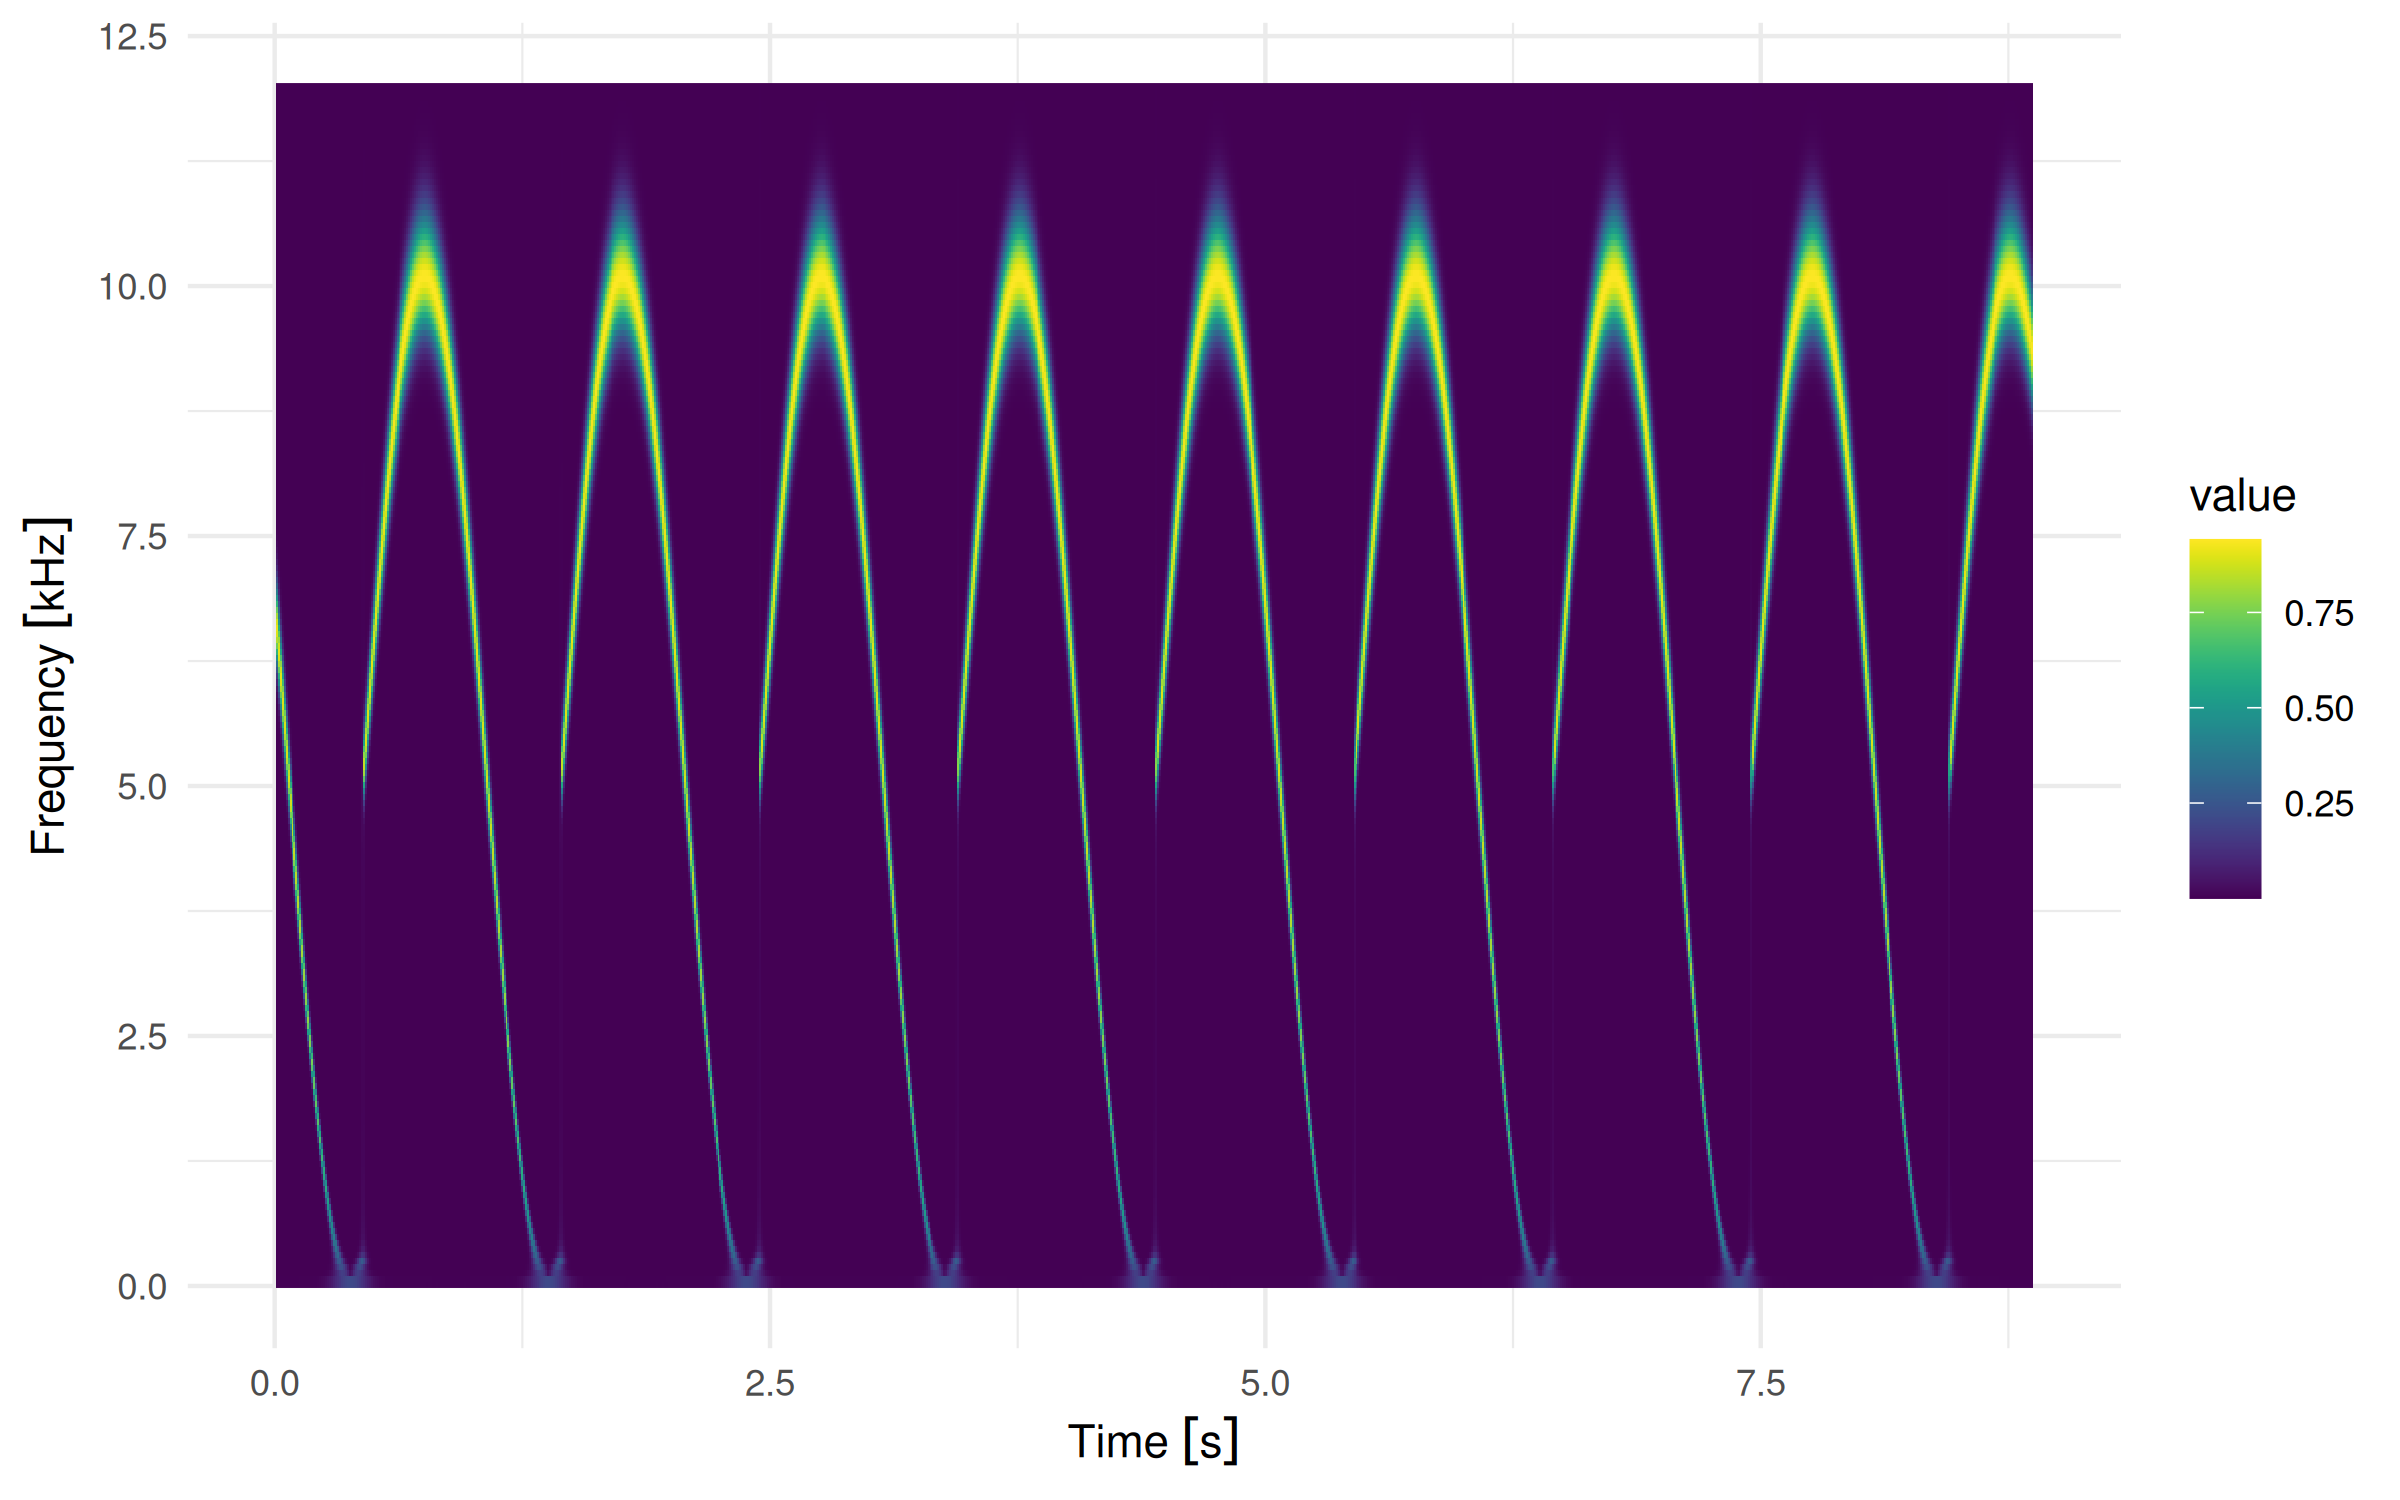
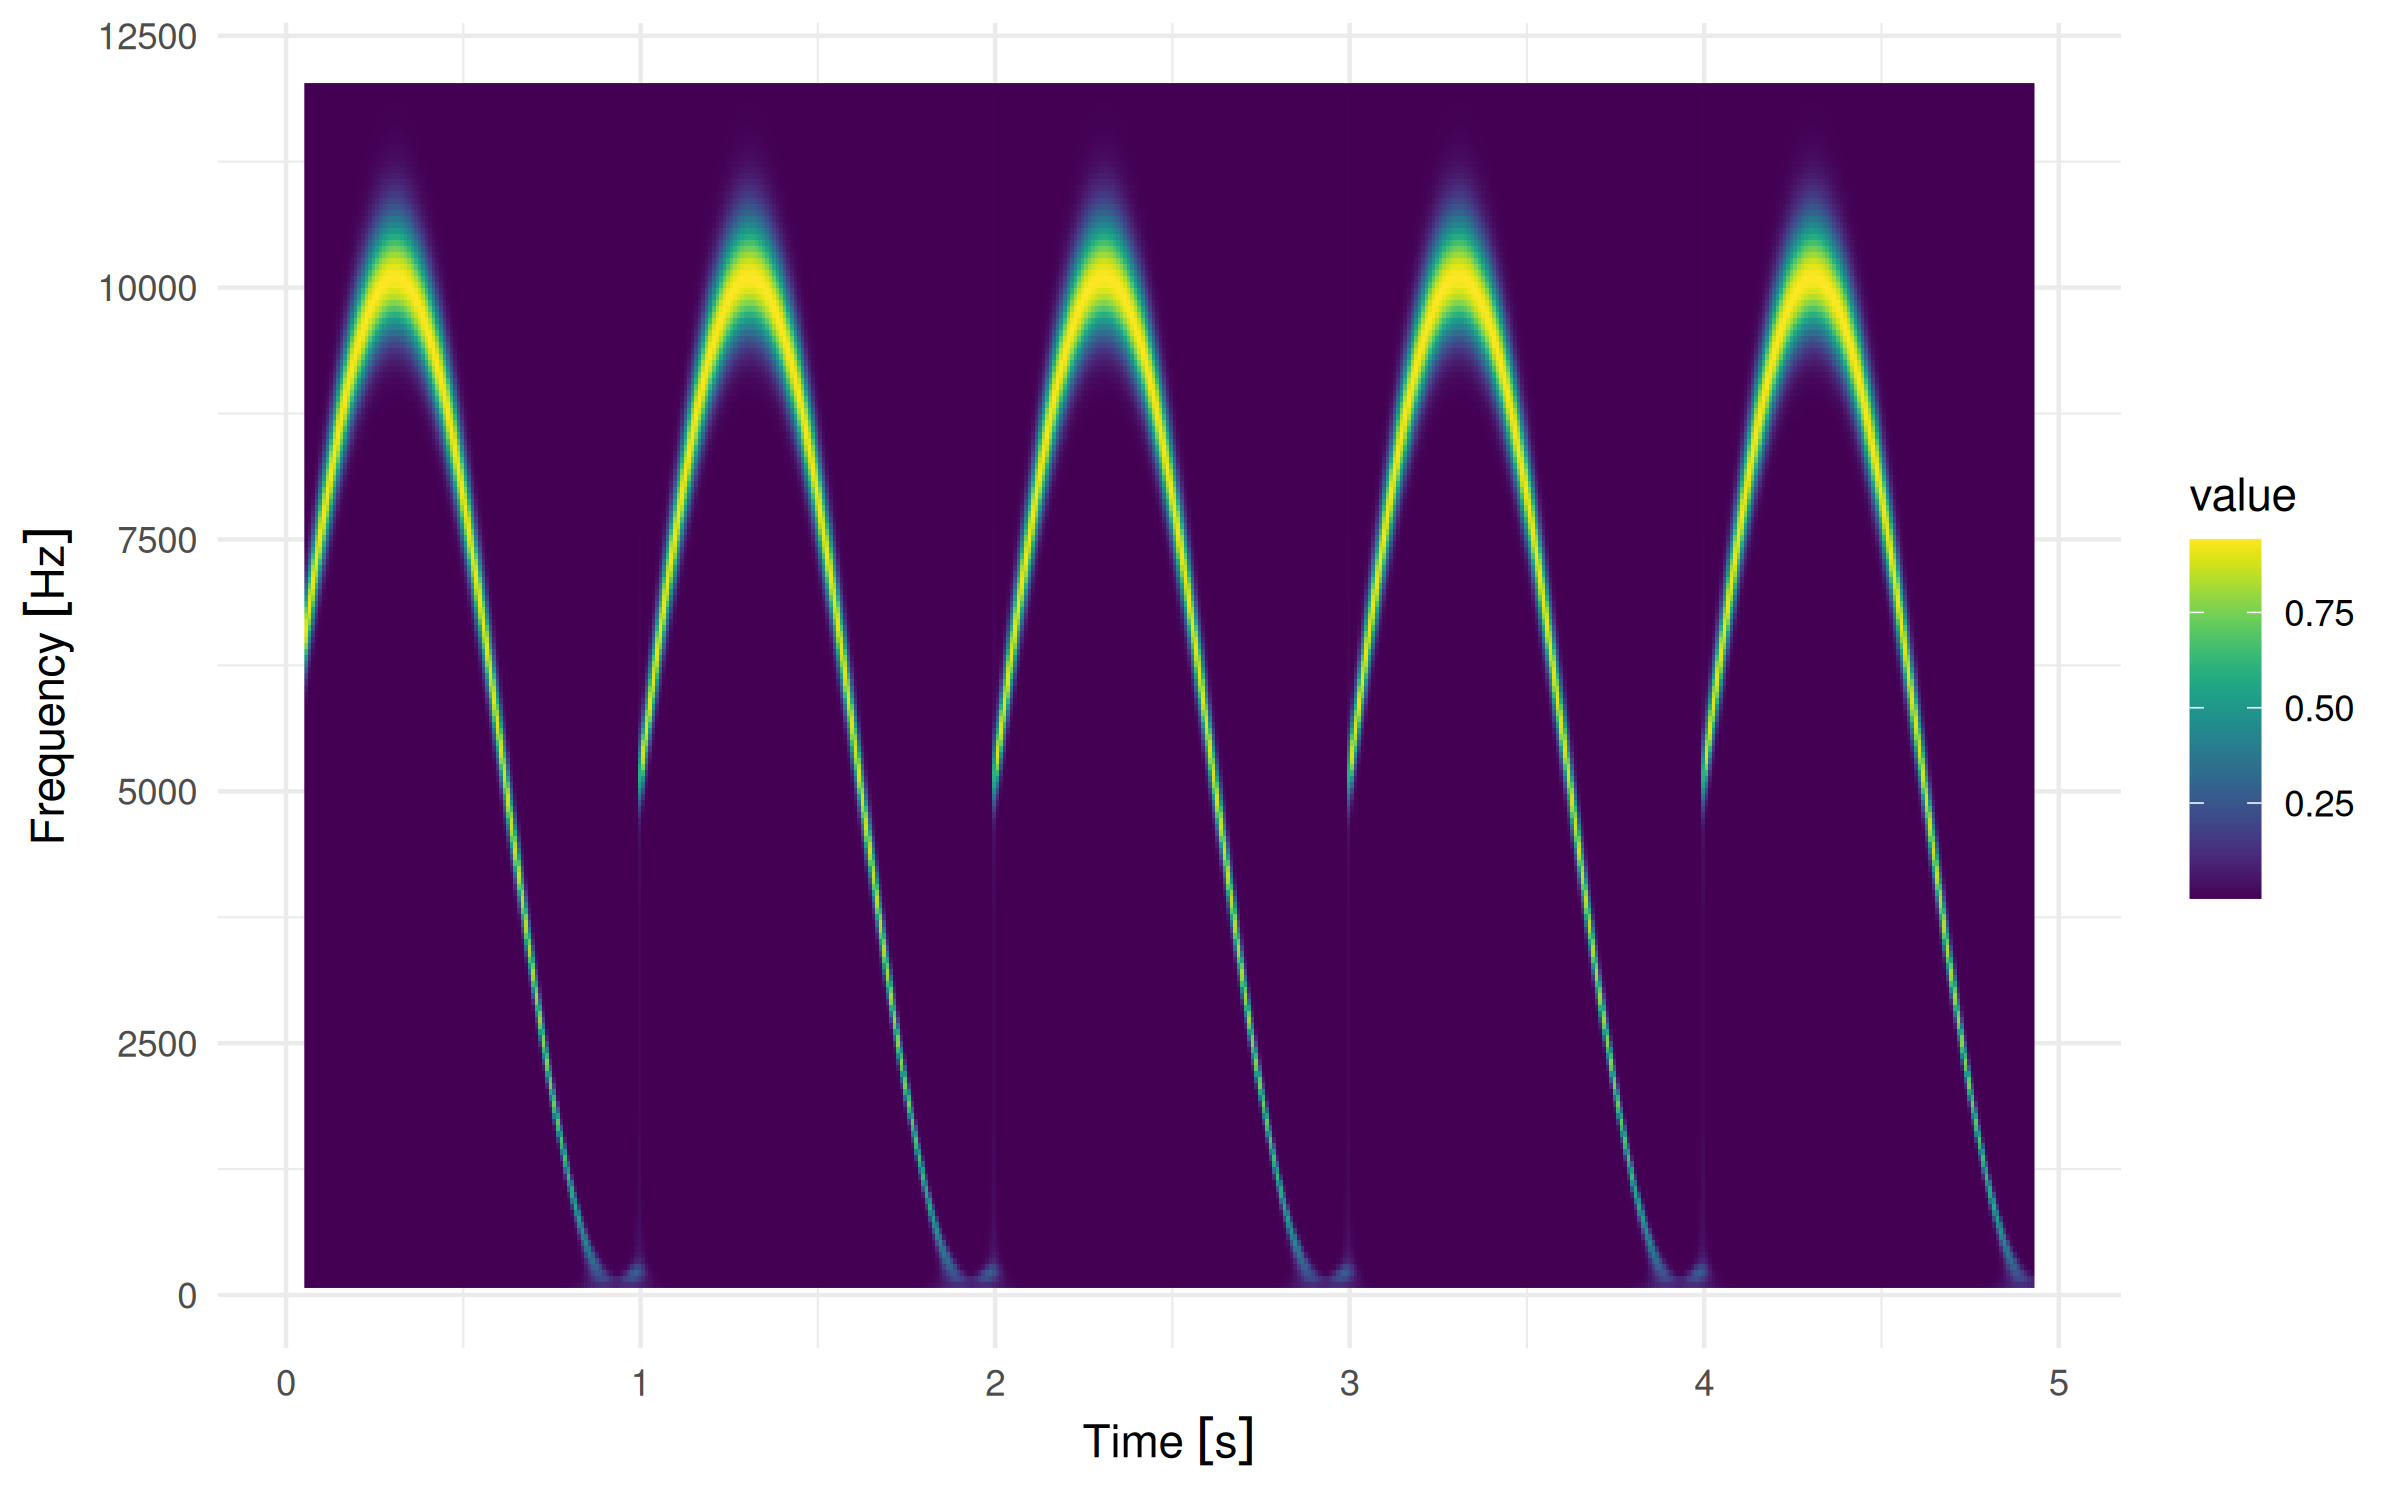
update README

diff --git a/README.md b/README.md
@@ -100,17 +100,17 @@ The result can be easily coerced into a data frame:
 
 ``` r
 head(as.data.frame(output), 10)
-#>    time_index               time      freq value
-#> 1           1 0.02267574 [1/kHz] 2100 [Hz]    NA
-#> 2           2 0.04535147 [1/kHz] 2100 [Hz]    NA
-#> 3           3 0.06802721 [1/kHz] 2100 [Hz]    NA
-#> 4           4 0.09070295 [1/kHz] 2100 [Hz]    NA
-#> 5           5 0.11337868 [1/kHz] 2100 [Hz]    NA
-#> 6           6 0.13605442 [1/kHz] 2100 [Hz]    NA
-#> 7           7 0.15873016 [1/kHz] 2100 [Hz]    NA
-#> 8           8 0.18140590 [1/kHz] 2100 [Hz]    NA
-#> 9           9 0.20408163 [1/kHz] 2100 [Hz]    NA
-#> 10         10 0.22675737 [1/kHz] 2100 [Hz]    NA
+#>    time_index             time      freq value
+#> 1           0 0.000000e+00 [s] 2100 [Hz]    NA
+#> 2           1 2.267574e-05 [s] 2100 [Hz]    NA
+#> 3           2 4.535147e-05 [s] 2100 [Hz]    NA
+#> 4           3 6.802721e-05 [s] 2100 [Hz]    NA
+#> 5           4 9.070295e-05 [s] 2100 [Hz]    NA
+#> 6           5 1.133787e-04 [s] 2100 [Hz]    NA
+#> 7           6 1.360544e-04 [s] 2100 [Hz]    NA
+#> 8           7 1.587302e-04 [s] 2100 [Hz]    NA
+#> 9           8 1.814059e-04 [s] 2100 [Hz]    NA
+#> 10          9 2.040816e-04 [s] 2100 [Hz]    NA
 ```
 
 We can also directly plot the resulting scalogram:
@@ -130,9 +130,9 @@ used to determine a batch size automatically:
 ``` r
 batch_result <-
   fcwt_batch(
-    rep(ts_sin_sin, 10),
+    rep(ts_sin_sin, 5),
     sample_freq = u(44.1, "kHz"),
-    freq_begin = u(10, "Hz"),
+    freq_begin = u(100, "Hz"),
     freq_end = u(12, "kHz"),
     n_freqs = 200,
     sigma = 4,
